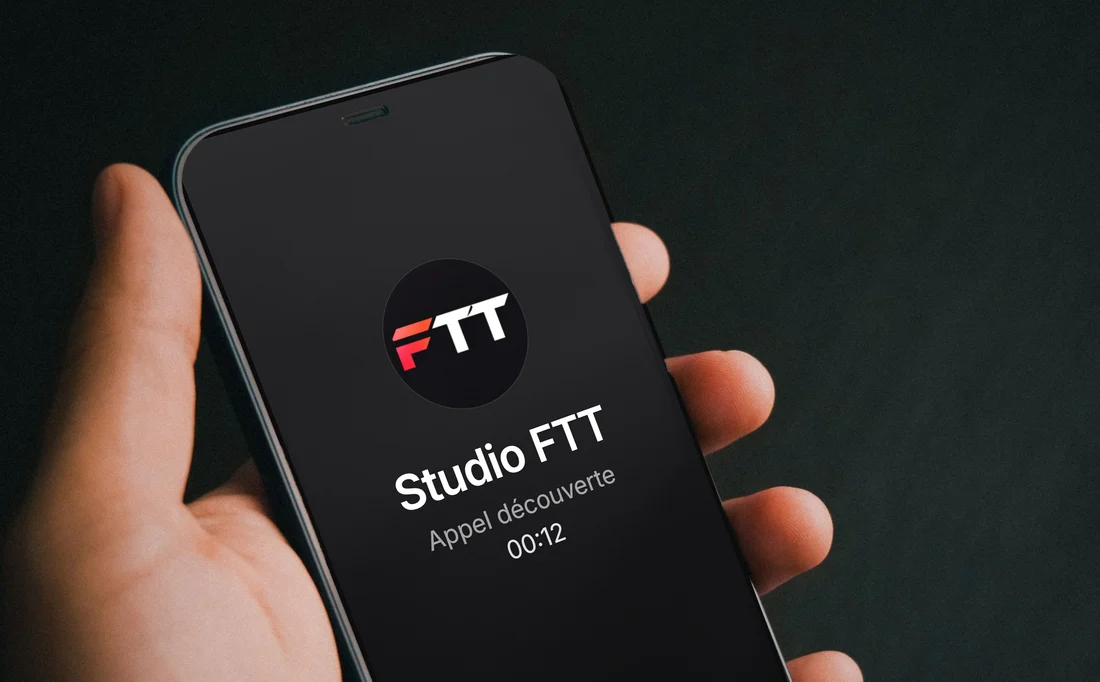
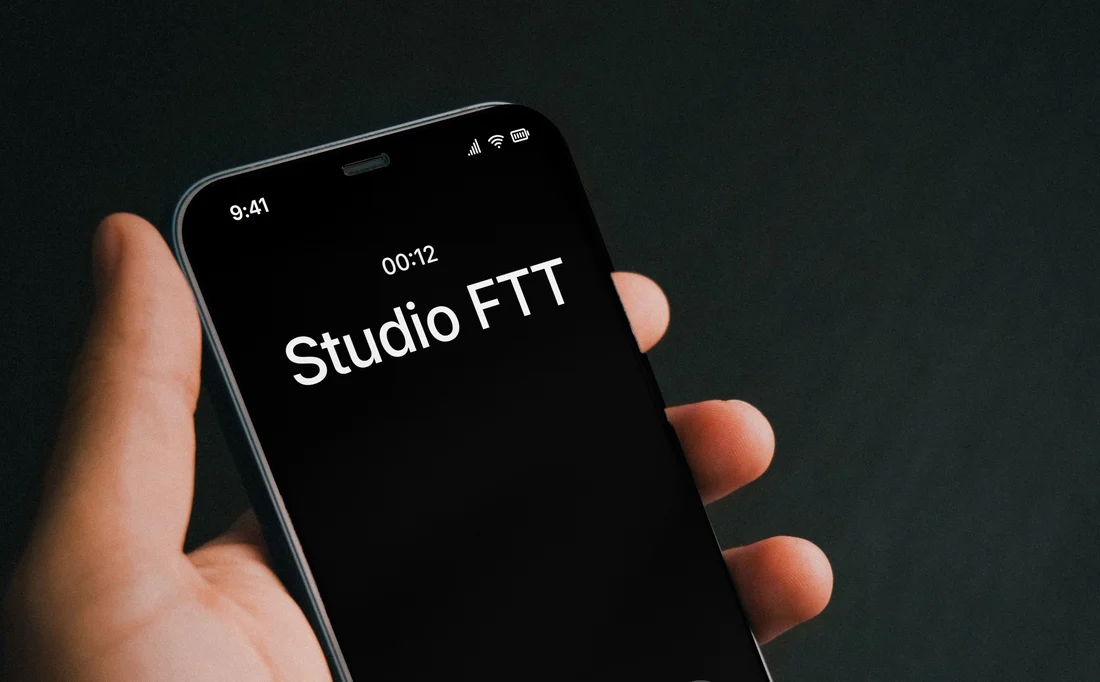
Carte « Je vous appelle » : écran d'appel façon iPhone (minutage + Studio FTT)

Changed region(s): [[0.0, 0.0616, 0.8036, 1.0], [0.0309, 0.8314, 0.1236, 1.0], [0.2164, 0.9545, 0.2473, 0.9853]]

diff --git a/components/ApprocheSection.tsx b/components/ApprocheSection.tsx
@@ -6,7 +6,7 @@ import { APPROCHE, type ApprocheStep } from "@/lib/data";
 
 /* ---------------------------------------------------------------------------
  * Visuels des cartes : photos Pexels libres de droits (mains + appareils), montées en mockup.
- * Carte 1 refaite le 04/10/2026 : photo Pexels 13570135 (jibarofoto), écran d'appel sombre (couleurs iOS) posé en perspective : logo, « Studio FTT », « Appel découverte », minutage, sans boutons.
+ * Carte 1 refaite le 04/10/2026 : photo Pexels 13570135 (jibarofoto), écran d'appel iOS recréé (minutage + « Studio FTT », sans photo de profil) posé en perspective.
  * (écran d'appel avec le vrai logo /logo_ftt.png, démo Marceau sur le portable).
  * ------------------------------------------------------------------------- */
 const VISUELS: { src: string; alt: string }[] = [
